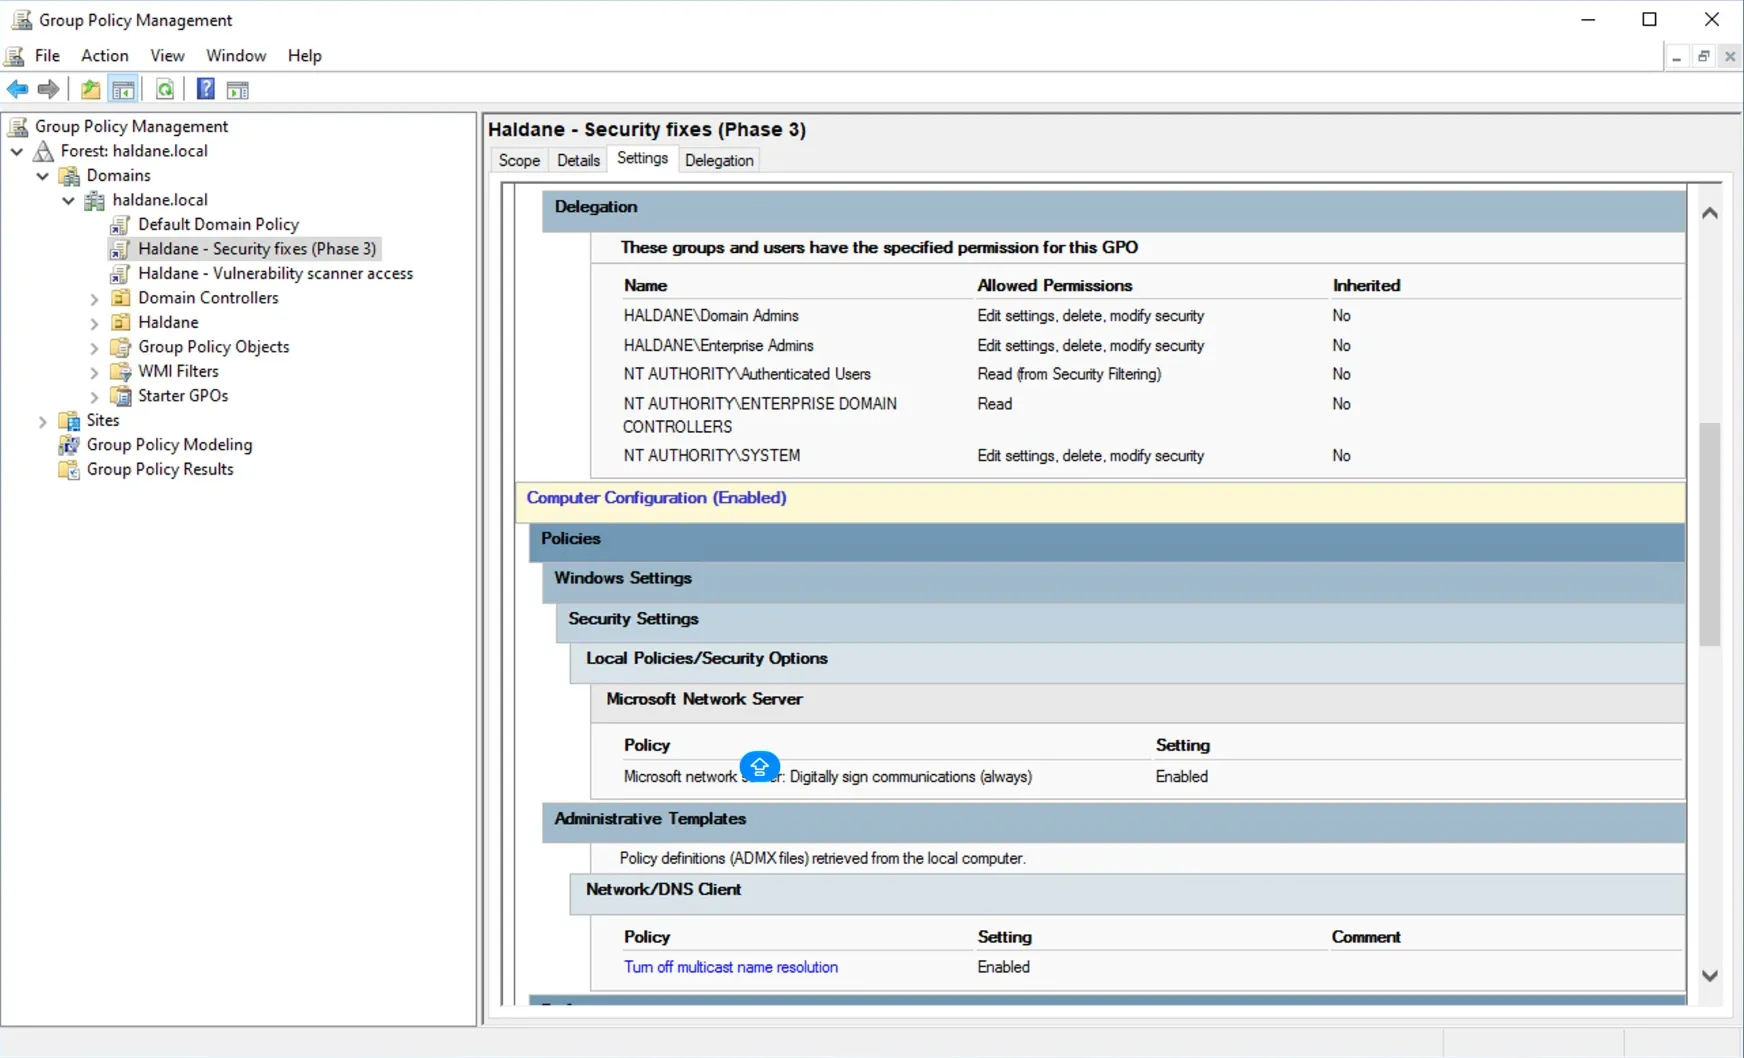
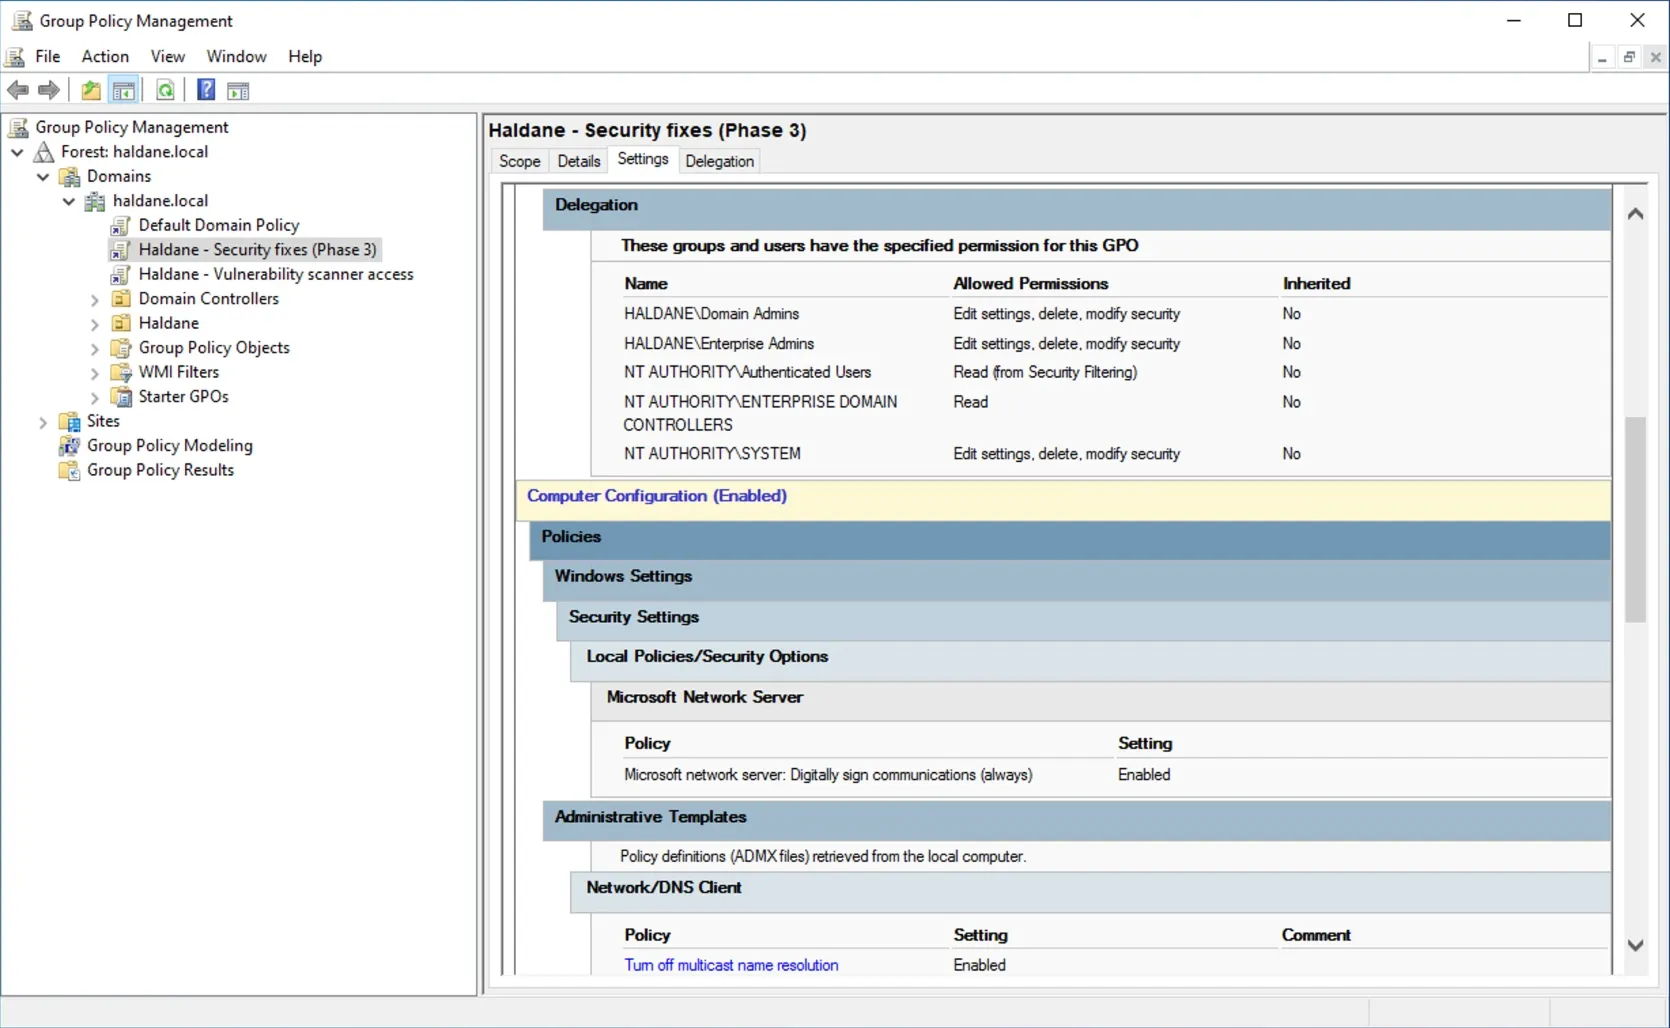
Phase 3: final GPO settings report with corrected registry path
Claude-Session: https://claude.ai/code/session_013EdpwsRsm1zfaT9CvjEeED

Changed region(s): [[0.0, 0.0, 1.0, 1.0]]

diff --git a/docs/03-vulnerability-management.md b/docs/03-vulnerability-management.md
@@ -161,7 +161,7 @@ would not have fixed anything.
 | SMB signing required | ![SMB signing setting](../images/phase3-gpo-smb-signing.webp) ![SMB signing enabled](../images/phase3-gpo-smb-signing-set.webp) |
 | LLMNR off | ![LLMNR setting](../images/phase3-gpo-llmnr.webp) ![LLMNR enabled](../images/phase3-gpo-llmnr-set.webp) |
 | CVE-2013-3900 registry values | ![Both EnableCertPaddingCheck items](../images/phase3-gpo-certpadding.webp) |
-| Policy summary | ![GPO settings report](../images/phase3-gpo-settings.webp) |
+| Policy summary (final) | ![GPO settings report: SMB signing and LLMNR](../images/phase3-gpo-settings.webp) ![GPO settings report: both corrected registry paths](../images/phase3-gpo-settings-registry.webp) |
 
 ### Verifying the fixes
 
